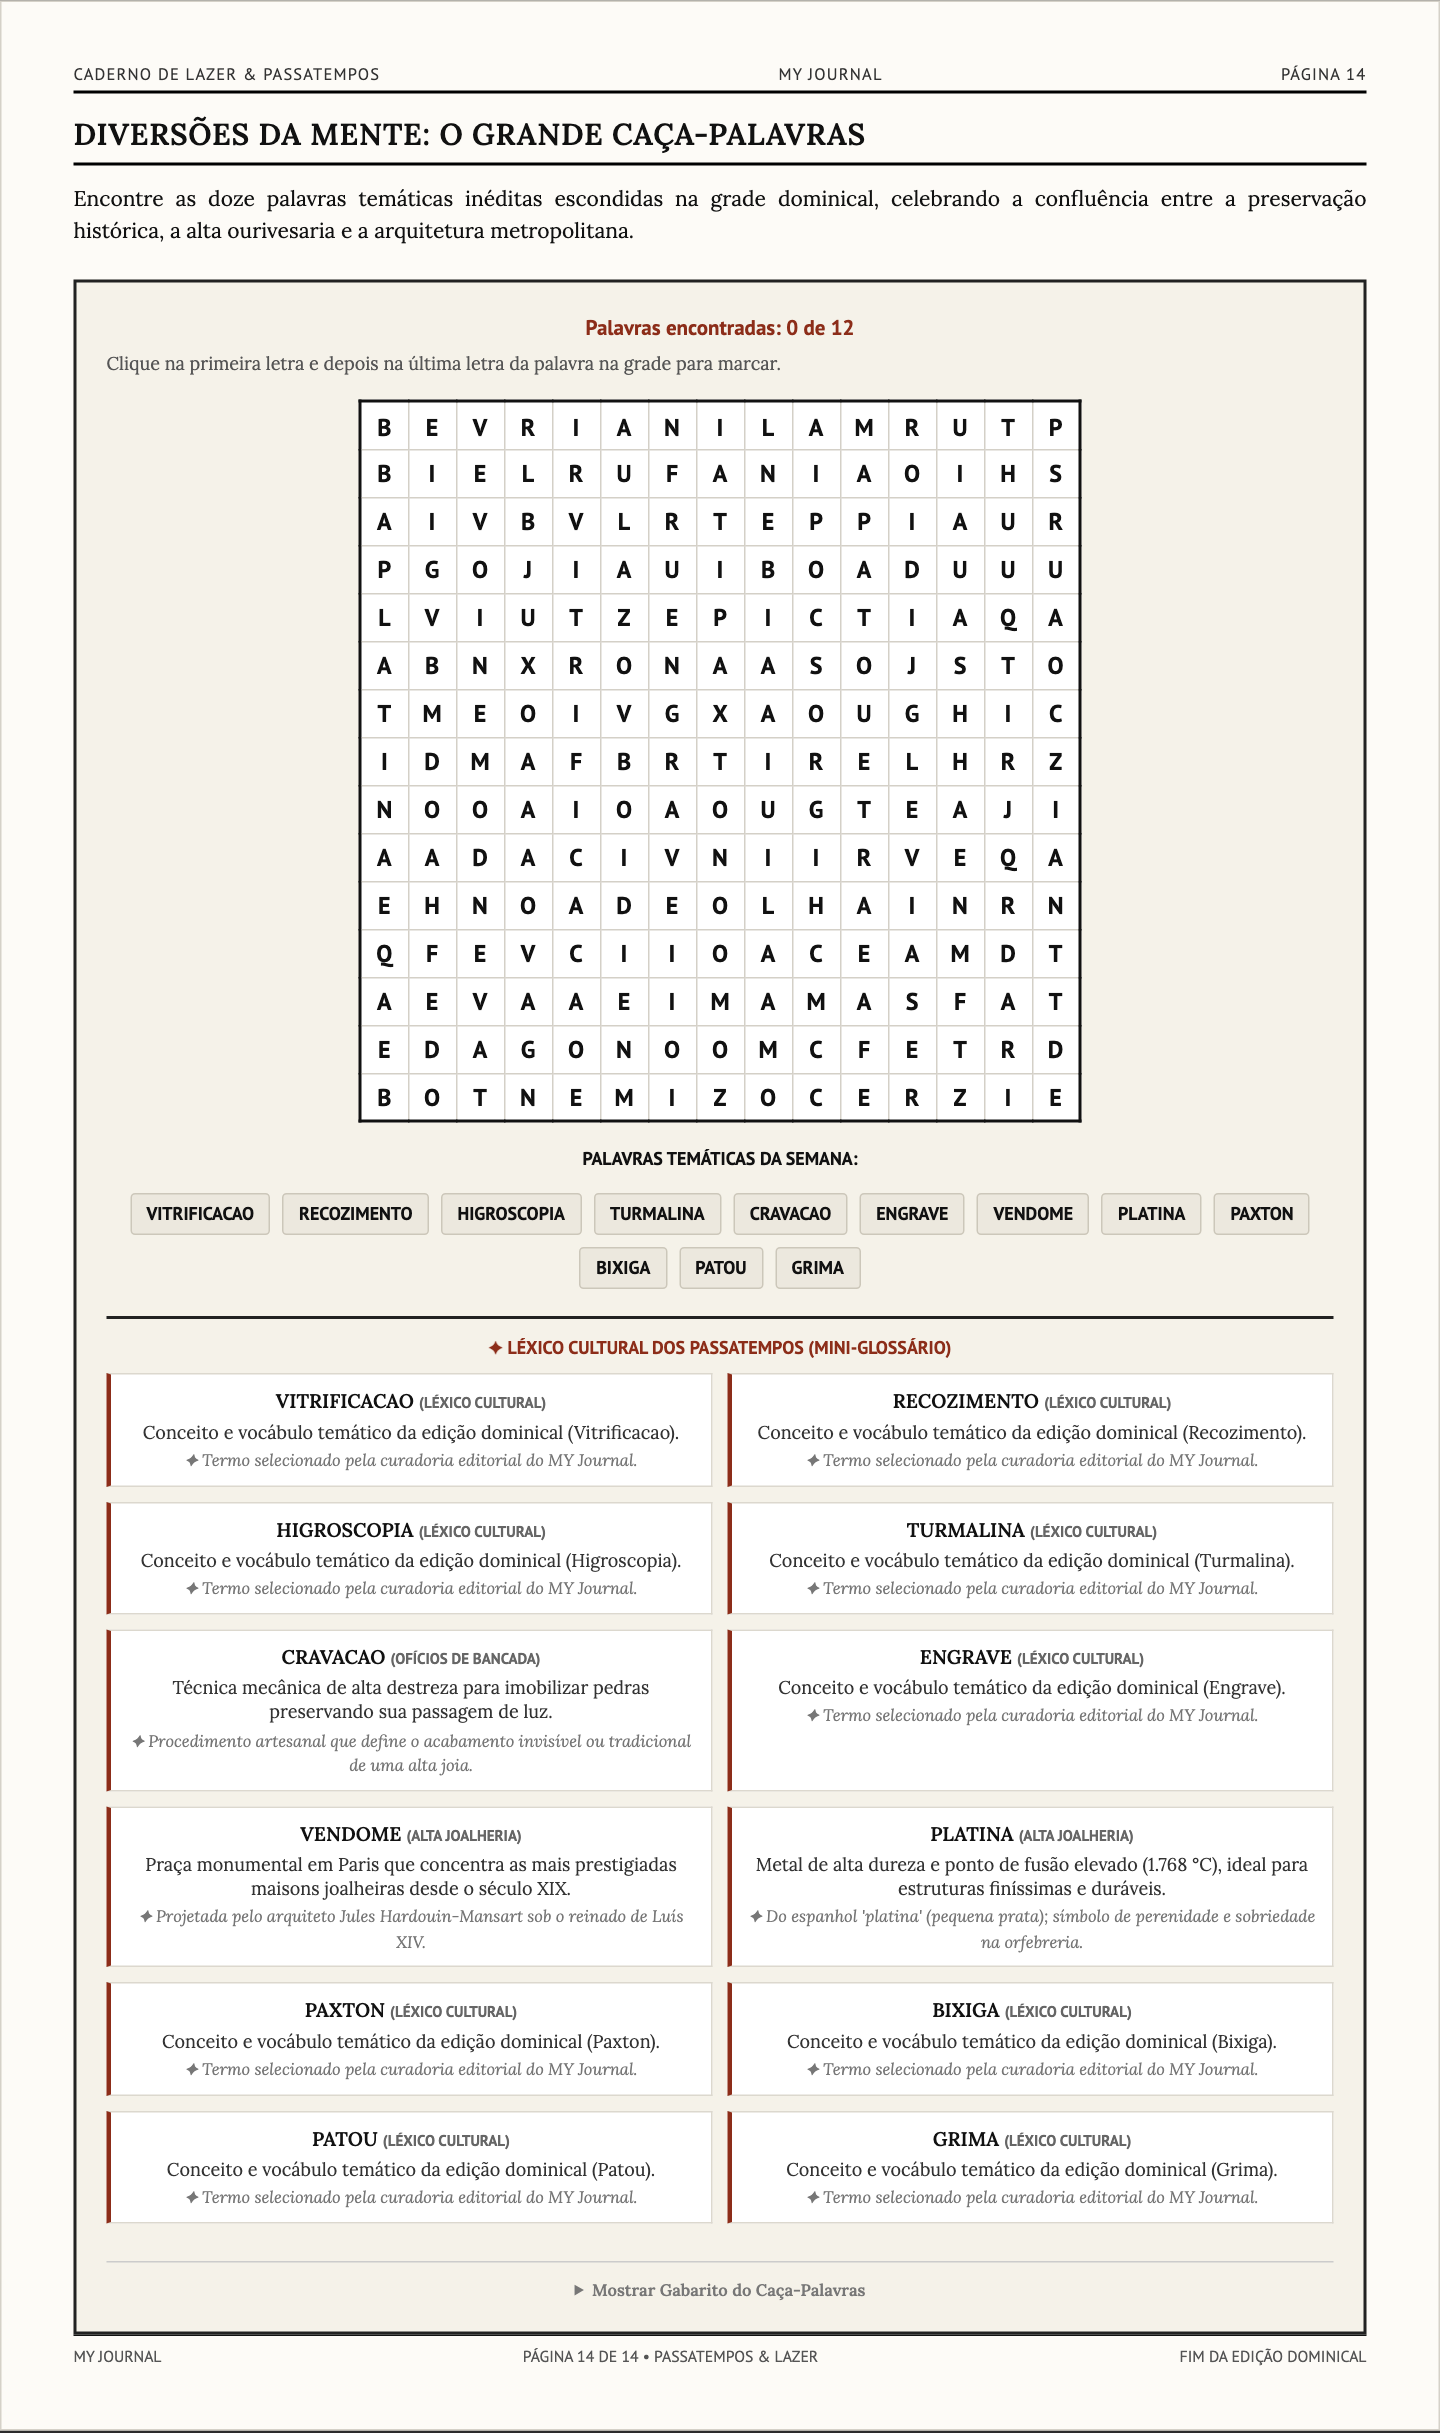
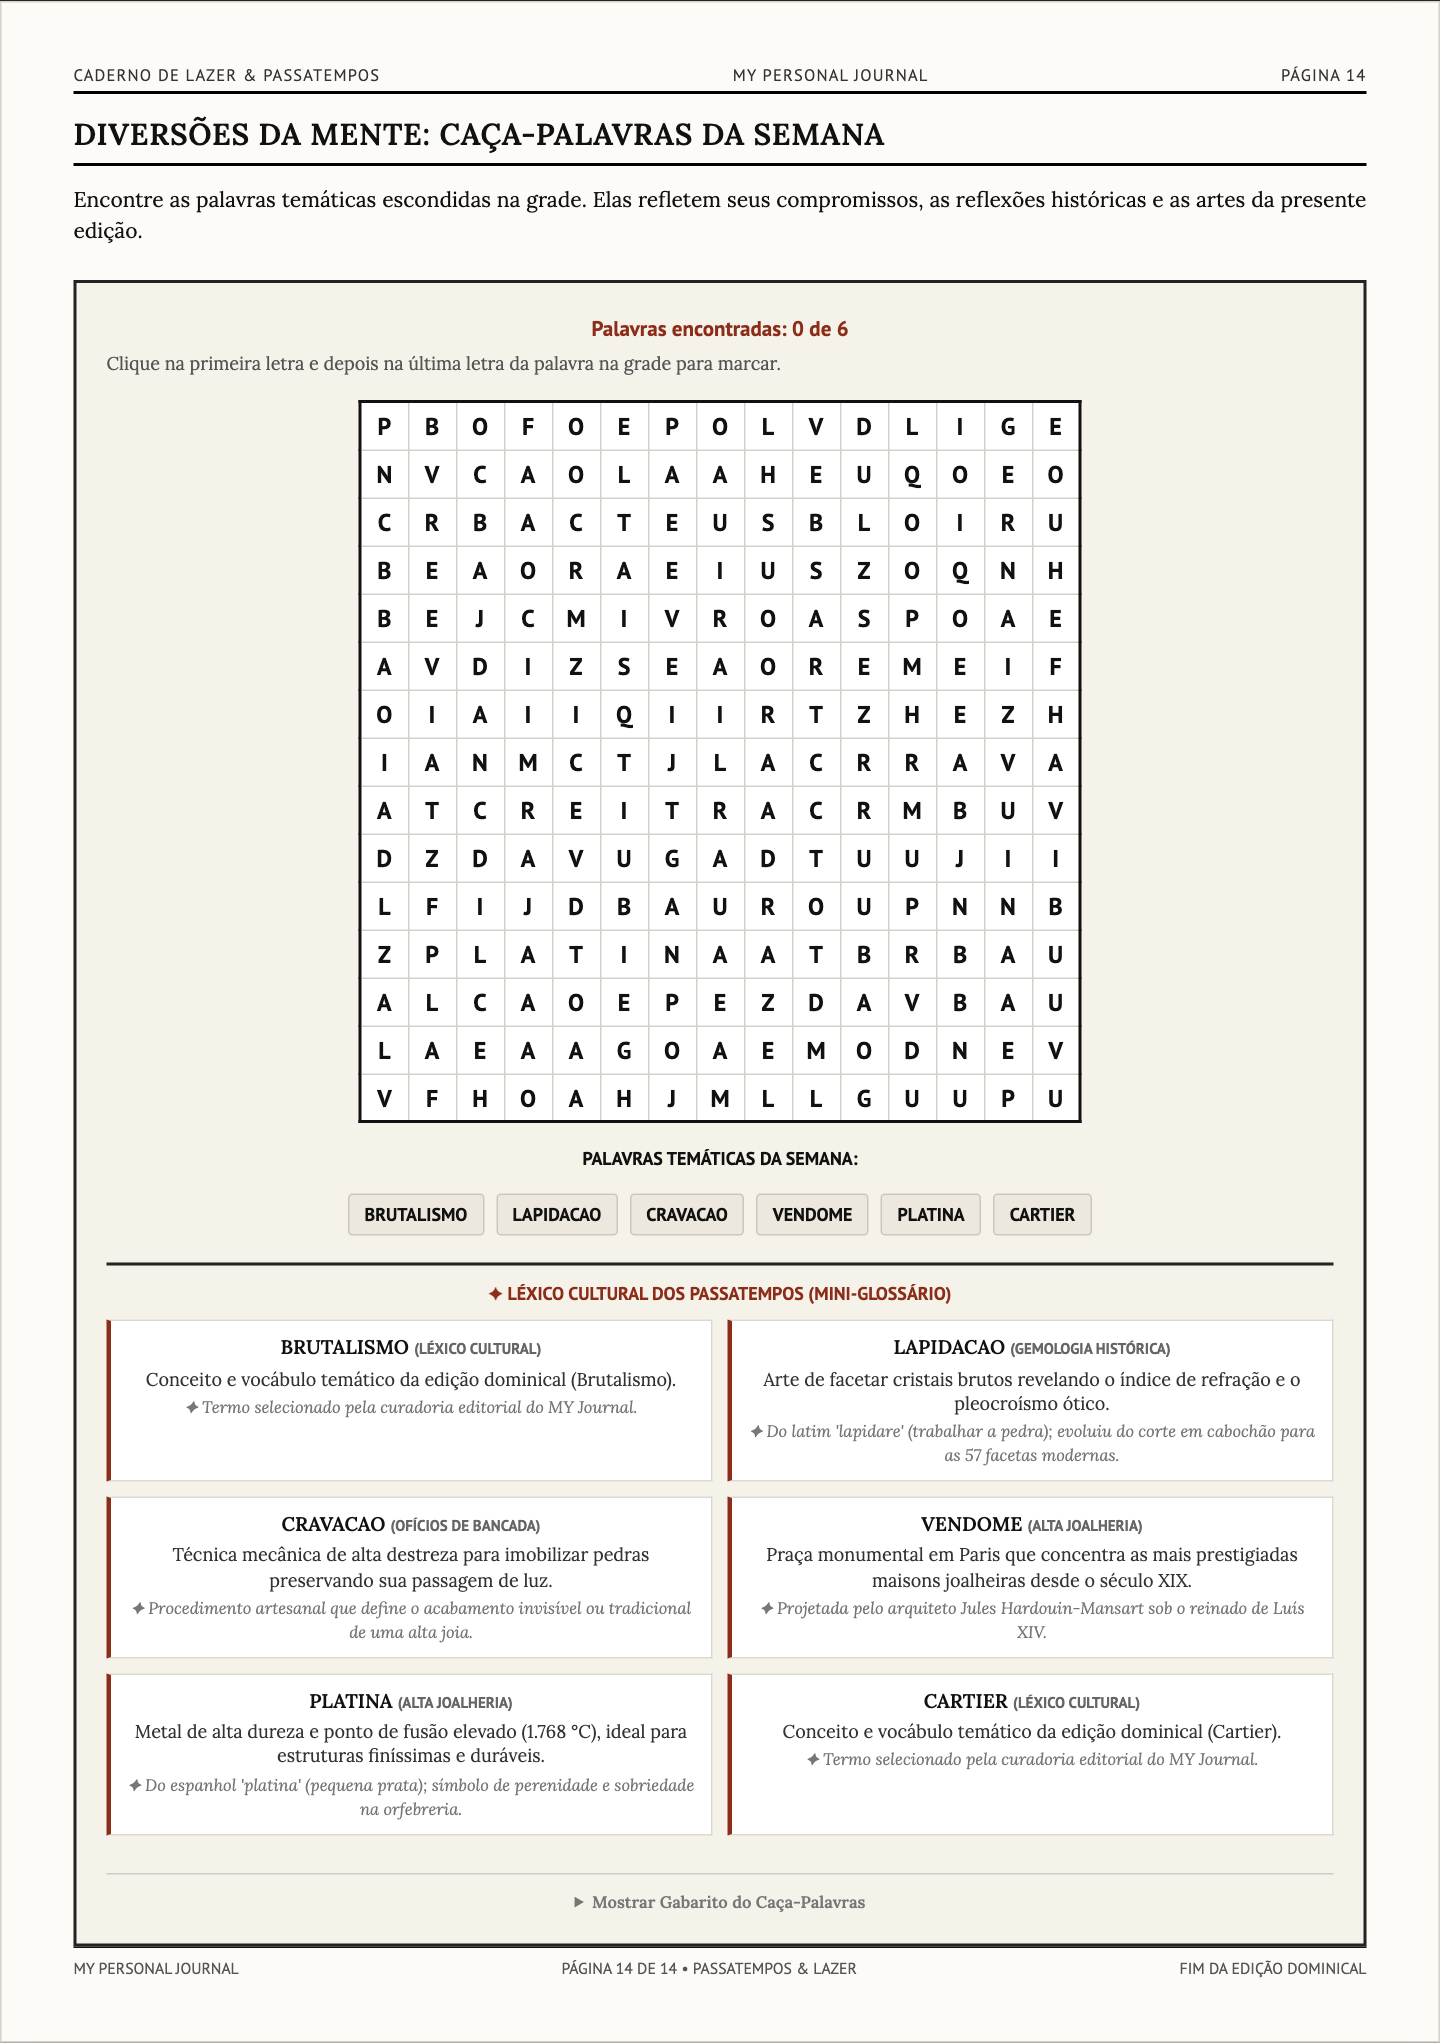
feat(branding): update masthead and identity to MY Personal Journal

Changed region(s): [[0.0, 0.0308, 1.0, 1.0], [0.0938, 0.4934, 0.1875, 0.5242], [0.8438, 0.4934, 0.9062, 0.5242]]

diff --git a/myjournal/config.py b/myjournal/config.py
@@ -13,7 +13,7 @@ class Config:
     GEMINI_MODEL = os.getenv("GEMINI_MODEL", "gemini-3.8-flash")
     OPENAI_MODEL = os.getenv("OPENAI_MODEL", "gpt-4o")
 
-    NEWSPAPER_TITLE = os.getenv("NEWSPAPER_TITLE", "MY JOURNAL")
+    NEWSPAPER_TITLE = os.getenv("NEWSPAPER_TITLE", "MY Personal Journal")
     NEWSPAPER_SUBTITLE = os.getenv("NEWSPAPER_SUBTITLE", "Edição Semanal Dedicada ao Conhecimento, Cultura e Planejamento")
     OWNER_NAME = os.getenv("OWNER_NAME", "Mauricio")
     CITY = os.getenv("CITY", "São Paulo")

diff --git a/README.md b/README.md
@@ -1,8 +1,8 @@
 <p align="center">
-  <img src="assets/images/header_personal_journal.jpg" alt="MY Journal: O Jornal Pessoal Impresso e Digital" width="100%">
+  <img src="assets/images/header_personal_journal.jpg" alt="MY Personal Journal: O Jornal Pessoal Impresso e Digital" width="100%">
 </p>
 
-# 📰 MY Journal
+# 📰 MY Personal Journal
 
 
 > **Seu jornal impresso semanal com design editorial do *The New York Times*, inteligência multi-agente e sincronização profunda com a sua vida.**
@@ -24,7 +24,7 @@ Abaixo estão capturas reais geradas pelo motor gráfico e pela redação de IA:
 O jornal abre com um diagnóstico de ritmo da semana integrado aos seus compromissos, fotografia tratada em alto contraste P&B e manchetes globais.
 
 <p align="center">
-  <img src="assets/images/preview_page1_frontpage.png" alt="Capa do MY Journal" width="850">
+  <img src="assets/images/preview_page1_frontpage.png" alt="Capa do MY Personal Journal" width="850">
 </p>
 
 ---
@@ -225,7 +225,7 @@ OPENAI_API_KEY="sua_chave_openai_aqui"
 
 # Personalização
 OWNER_NAME="Mauricio"
-JOURNAL_TITLE="MY Journal"
+JOURNAL_TITLE="MY Personal Journal"
 
 # Calendários (URLs .ics públicas ou secretas)
 CALENDAR_URL_PESSOAL="https://calendar.google.com/calendar/ical/seu_pessoal/basic.ics"

diff --git a/CHANGELOG.md b/CHANGELOG.md
@@ -6,6 +6,16 @@ O formato segue as diretrizes do [Keep a Changelog](https://keepachangelog.com/p
 
 ---
 
+## [2.2.0] - 2026-10-19
+
+### 🏷 Rebranding Editorial: MY Personal Journal
+- **Atualização do Cabeçalho & Masthead Oficial:**
+  - Padronização do nome do jornal para **`MY Personal Journal`** em todas as camadas de configuração, modelos e templates.
+  - Atualização dos metadados globais em [config.py](file:///Users/mauriciohelfstein/Downloads/myjournal-ai/myjournal/config.py), `.env.example` e documentação [README.md](file:///Users/mauriciohelfstein/Downloads/myjournal-ai/README.md).
+  - Regeneração integral da edição e atualização de todos os assets visuais e screenshots da capa e cadernos internos.
+
+---
+
 ## [2.1.0] - 2026-10-19
 
 ### 🌐 Expansão de Fontes Oficiais & Imagens Reais (Brasil & Mundo)
